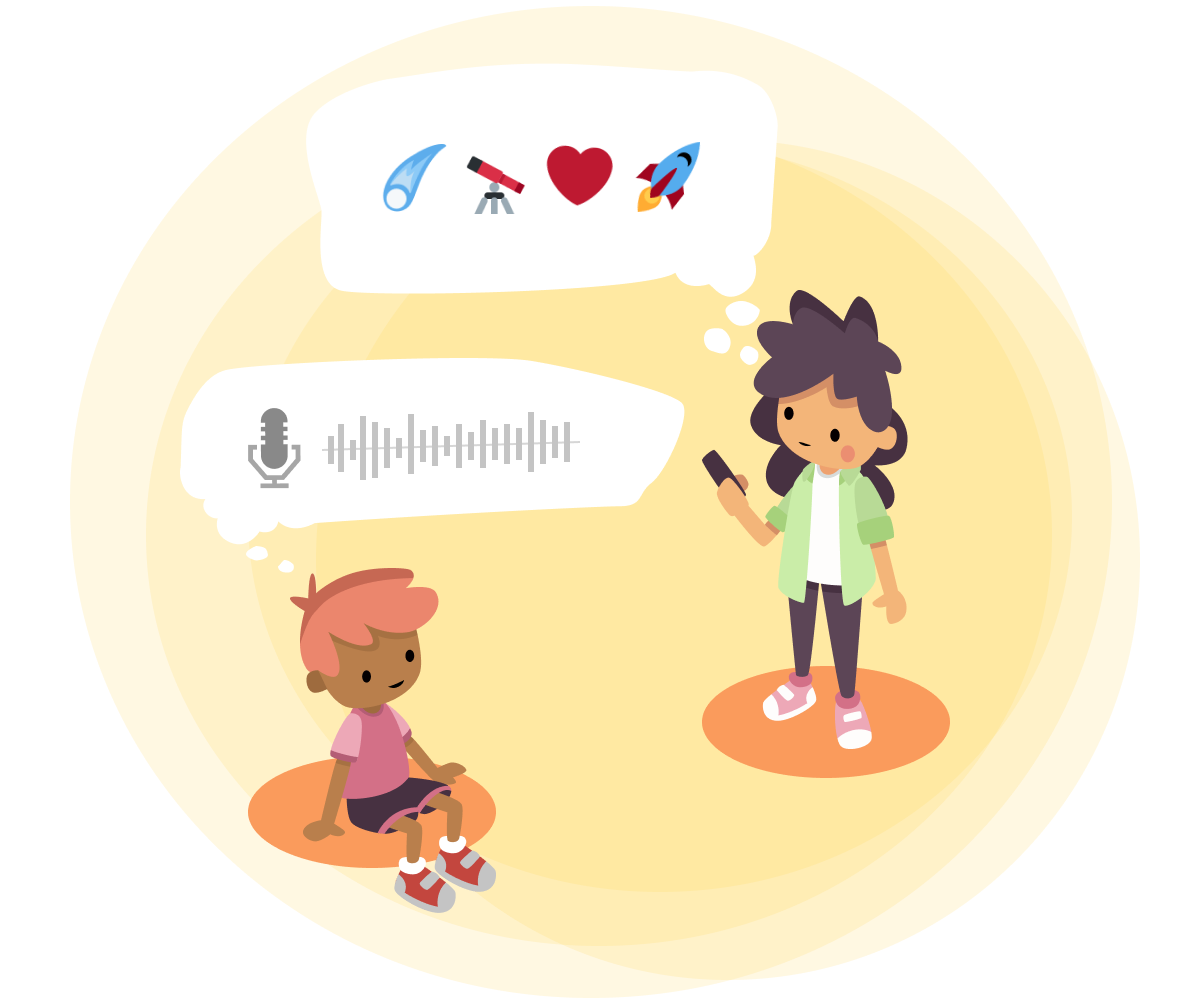
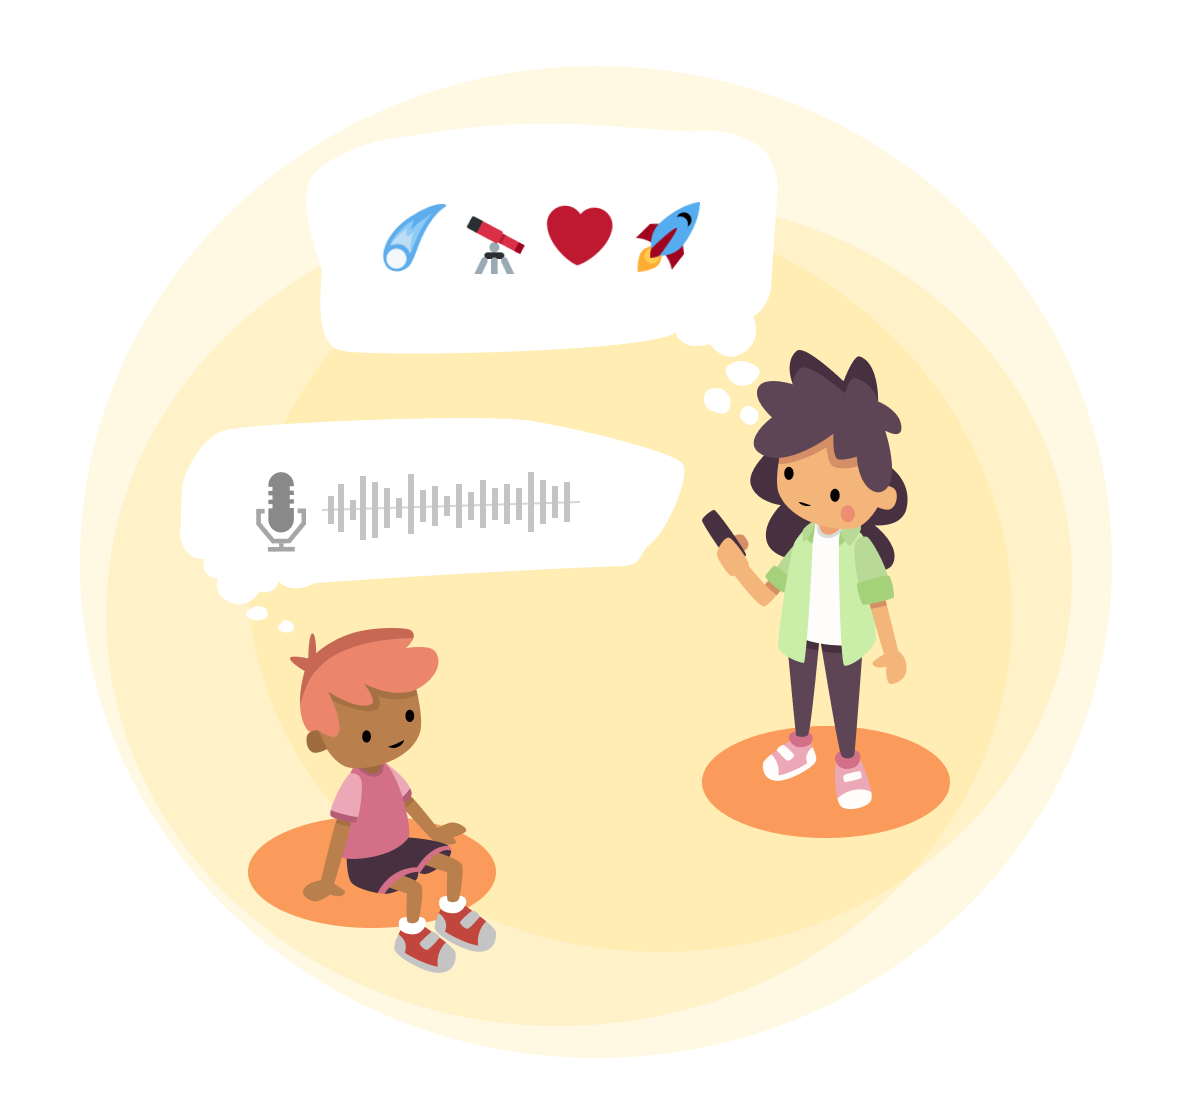
WIP: Homepage copy update and layout

diff --git a/src/app/home/home.component.scss b/src/app/home/home.component.scss
@@ -230,7 +230,7 @@ $navy: #072649;
   }
 
   &--accent {
-    background: #fff3e4;
+    background: #b8e8f7;
   }
 }
 
